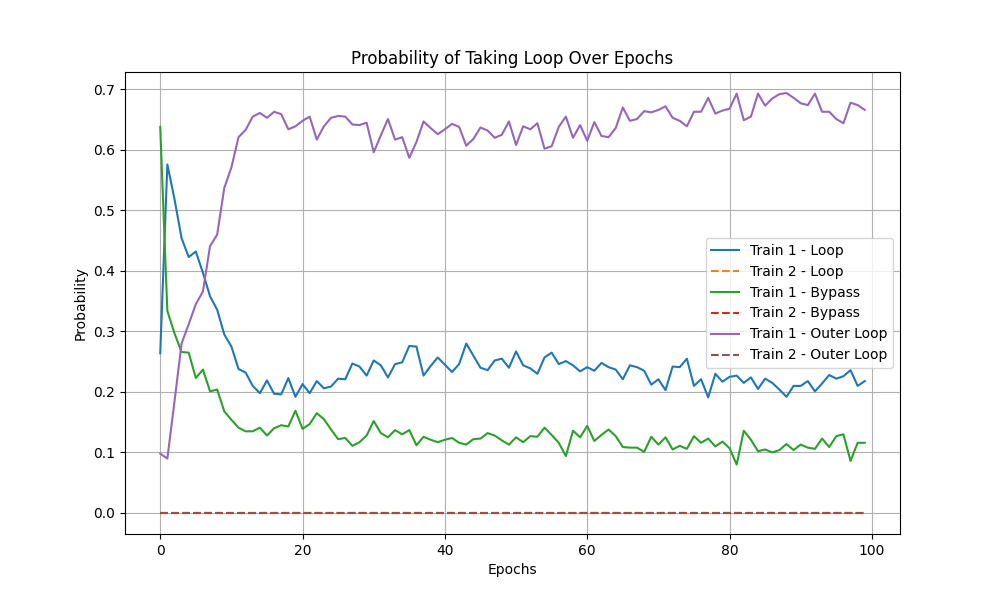
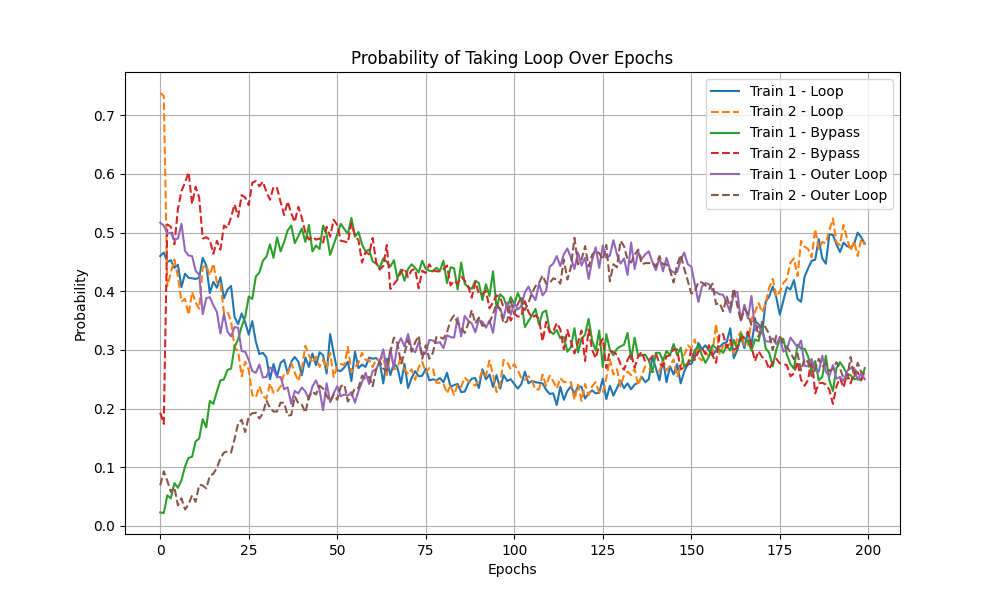
presentation annotations to main_reset.py

diff --git a/src/single_track_simulations/main_reset.py b/src/single_track_simulations/main_reset.py
@@ -43,17 +43,20 @@ def update(theta, p):
     return theta
 
 # Q-learning parameters
-# Q-learning parameters
-alpha_values = [0.1]
-gamma_values = [0.99]
+
+# how much new information overrides old information in the Q-table. (how willing the system is to change policy)
+alpha_values = [0.1] # 0.1, 0.05, 0.01
+
+# long vs. short term rewards
+gamma_values = [0.99] # 0.99, 0.95, 0.9
 
 epsilon_values = [1.0] # Epsilon starts at 1.0, decays overtime
 epsilon_end = 0.075   # Minimum exploration rate
 decay_rate = 0.98   # How fast epsilon decreases
 
-epoch_values = [100]
+epoch_values = [200]
 results = []
-mode = "Fixed"
+mode = "QRL"
 
 # Sweep through all combinations of parameters
 for alpha, gamma, epsilon, epochs in itertools.product(alpha_values, gamma_values, epsilon_values, epoch_values):
@@ -105,13 +108,13 @@ for alpha, gamma, epsilon, epochs in itertools.product(alpha_values, gamma_value
 
         if current_distance > previous_distance:
             train1_reward = current_distance-previous_distance
-            train2_reward = -1
+            train2_reward = previous_distance-current_distance
         elif current_distance < previous_distance:
             train1_reward = current_distance-previous_distance
-            train2_reward = +1
+            train2_reward = previous_distance-current_distance
         else:
             train1_reward = -1
-            train2_reward = -1
+            train2_reward = +1
 
         # Update Q-values using Bellman equation
         train1_Q[a_train1] = train1_Q[a_train1] + alpha * (train1_reward + gamma * max(train1_Q) - train1_Q[a_train1])

diff --git a/src/intermediate_track_simulations/main_intermediate_track_reset.py b/src/intermediate_track_simulations/main_intermediate_track_reset.py
@@ -57,9 +57,9 @@ epsilon_values = [1.0] # Epsilon starts at 1.0, decays overtime
 epsilon_end = 0.10   # Minimum exploration rate
 decay_rate = 0.99   # How fast epsilon decreases
 
-epoch_values = [100]
+epoch_values = [200]
 results = []
-mode = "Random"
+mode = "QRL"
 
 for alpha, gamma, epsilon, epochs in itertools.product(alpha_values, gamma_values, epsilon_values, epoch_values):
     print(f"Running with alpha={alpha}, gamma={gamma}, epsilon={epsilon}, epochs={epochs}")
@@ -130,7 +130,7 @@ for alpha, gamma, epsilon, epochs in itertools.product(alpha_values, gamma_value
             train2_reward = previous_distance - current_distance
         else:
             train1_reward = -1
-            train2_reward = -1
+            train2_reward = +1
 
         # Update Q-values using Bellman's equation
         train1_Q[a_train1] = train1_Q[a_train1] + alpha * (train1_reward + gamma * max(train1_Q) - train1_Q[a_train1])

diff --git a/src/single_track_simulations/main.py b/src/single_track_simulations/main.py
@@ -111,7 +111,7 @@ for alpha, gamma, epsilon, epochs in itertools.product(alpha_values, gamma_value
             train2_reward = previous_distance-current_distance
         else:
             train1_reward = -1
-            train2_reward = -1
+            train2_reward = +1
 
         # Update Q-values using Bellman equation
         train1_Q[a_train1] = train1_Q[a_train1] + alpha * (train1_reward + gamma * max(train1_Q) - train1_Q[a_train1])

diff --git a/src/intermediate_track_simulations/train_simulation.py b/src/intermediate_track_simulations/train_simulation.py
@@ -188,3 +188,12 @@ def simulate_train_loop_control_fixed(train1, train2, track):
             break
 
     return calculate_distance(train1, train2, track)
+
+
+track = SimpleTrack()
+train1 = Train(track, start_position=0)
+train2 = Train(track, start_position=7)
+
+simulate_train_loop_qrl(train1, train2, track, 1, 0)
+
+print(f"distance: {calculate_distance(train1, train2, track)}")

diff --git a/src/intermediate_track_simulations/main_intermediate_track_reset_control.py b/src/intermediate_track_simulations/main_intermediate_track_reset_control.py
@@ -29,8 +29,8 @@ def simulate_train_loop_control_Random(train1, train2, track):
     return calculate_distance(train1, train2, track)
 
 # Simulation parameters
-epochs = 100
-mode = "Fixed"
+epochs = 200
+mode = "Random"
 
 track = SimpleTrack()
 train1 = Train(track, start_position=0)

diff --git a/src/single_track_simulations/main_control_reset.py b/src/single_track_simulations/main_control_reset.py
@@ -29,7 +29,7 @@ def simulate_train_loop_control_Random(train1, train2, track):
     return calculate_distance(train1, train2, track)
 
 # Simulation parameters
-epochs = 100
+epochs = 200
 mode = "Random"
 
 track = SimpleTrack()
